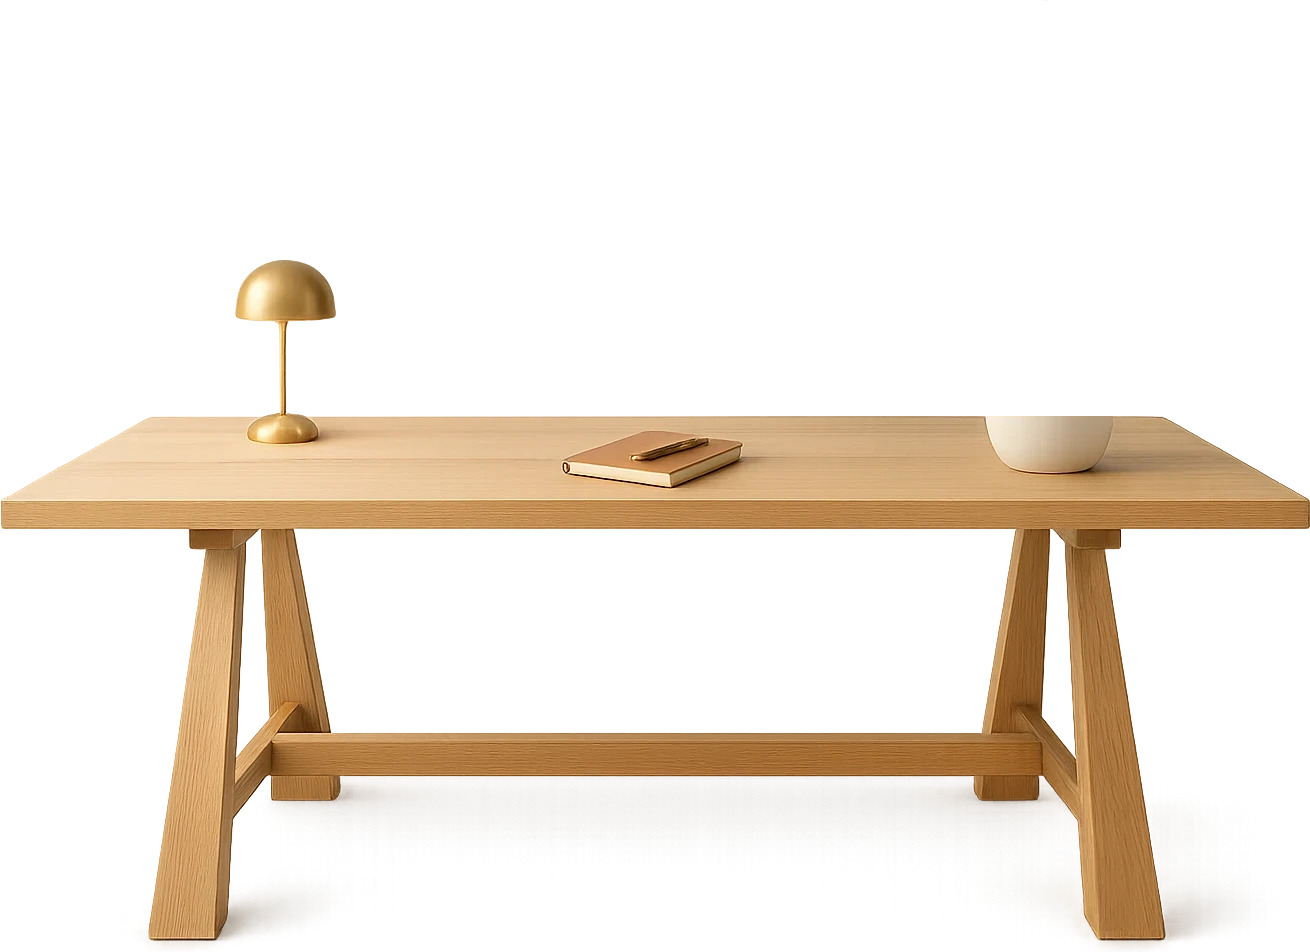
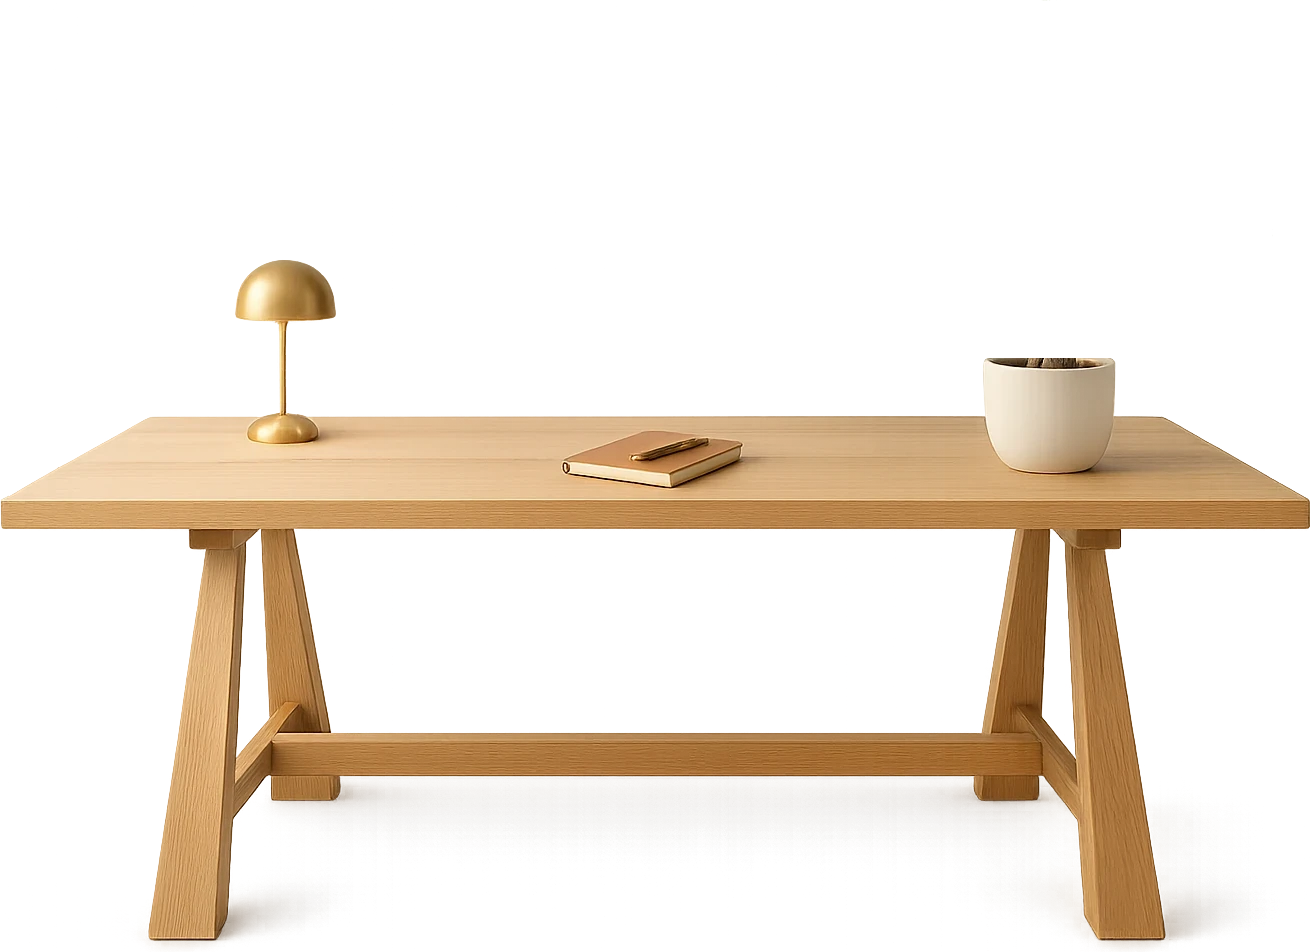
Desk plant: keep the pot on the desk, sway only the tree
The pot was drawn on both layers (and the plant layer's copy was missing
its shaded right side), so a click or drag slid the two copies apart.
The split now leaves the whole pot (rim, soil, trunk base) on the desk
image and cuts out only the tree above it, which pivots at the soil.

Changed region(s): [[0.7328, 0.3655, 0.855, 0.4569]]

diff --git a/app/site/_components/concrete-wall/desk-scene.tsx b/app/site/_components/concrete-wall/desk-scene.tsx
@@ -49,8 +49,9 @@ const CLICK_MS = 450;
  * full-bleed like the wall, and only the plant and the jar take the pointer.
  *
  * - The money tree turns a little when you drag it sideways (a 3D turn
- *   around the pot, with the pot as the pivot) and springs back when you
- *   let go. It lives on its own layer, cut out of the desk image by
+ *   about its trunk, pivoting at the soil) and springs back when you let
+ *   go. The pot stays on the desk image; the tree above the soil lives on
+ *   its own layer, cut out of the desk image by
  *   scripts/split-desk-plant.mjs, and laid back exactly where it stood using
  *   the same `--desk-*` custom properties the wall uses for the desk.
  * - A mason jar of water stands on the windowsill (where the shader draws
@@ -282,6 +283,8 @@ export function DeskScene() {
     "--desk-light": (1 - sky.night * 0.45 - overcast * 0.12).toFixed(3),
     "--desk-tone": (1 - sky.night * 0.25).toFixed(3),
   } as CSSProperties;
+  // The tree pivots where the trunk meets the soil, so the pot never moves.
+  const soil = `${(PLANT_ART.pot.x * 100).toFixed(2)}% ${(PLANT_ART.pot.top * 100).toFixed(2)}%`;
   const spring = reducedMotion ? "transform 250ms ease-out" : "transform 900ms cubic-bezier(0.34, 1.56, 0.64, 1)";
   const glide = reducedMotion ? "transform 250ms ease-out" : "transform 650ms cubic-bezier(0.2, 0.8, 0.2, 1)";
 
@@ -307,7 +310,8 @@ export function DeskScene() {
         onPointerCancel={onPlantUp}
       >
         <div
-          className={cn("relative origin-[50%_96%]", drinking && !reducedMotion && "animate-[plant-drink_2.6s_ease-in-out]")}
+          className={cn("relative", drinking && !reducedMotion && "animate-[plant-drink_2.6s_ease-in-out]")}
+          style={{ transformOrigin: soil }}
         >
           <Image
             src={PLANT_ART.src}
@@ -320,7 +324,7 @@ export function DeskScene() {
             className="h-auto w-full"
             style={{
               transform: `perspective(1100px) rotateY(${turn.toFixed(2)}deg)`,
-              transformOrigin: "50% 96%",
+              transformOrigin: soil,
               transition: holdingPlant ? "none" : spring,
               filter:
                 "drop-shadow(18px 22px 24px var(--desk-shadow)) brightness(calc(var(--desk-light) * var(--desk-dim))) saturate(var(--desk-tone))",

diff --git a/app/site/_components/concrete-wall/scene.ts b/app/site/_components/concrete-wall/scene.ts
@@ -89,8 +89,8 @@ export function deskLayoutVars() {
 }
 
 /**
- * The potted money tree, split out of the desk image by
- * scripts/split-desk-plant.mjs. `left`/`right`/`top`/`bottom` are where its
+ * The money tree above the soil, split out of the desk image by
+ * scripts/split-desk-plant.mjs (the pot stays on the desk image). `left`/`right`/`top`/`bottom` are where its
  * box sits in the desk image (fractions), so it lands back exactly on the
  * desk; `pot` is the pot's opening inside the plant image (fractions of its
  * own box): centre x, top y, and half width. All printed by that script.
@@ -103,7 +103,7 @@ export const PLANT_ART = {
   right: 0.971,
   top: 0.0011,
   bottom: 0.4632,
-  pot: { x: 0.5146, top: 0.8273, r: 0.118 },
+  pot: { x: 0.5344, top: 0.8273, r: 0.1357 },
 } as const;
 
 /**
